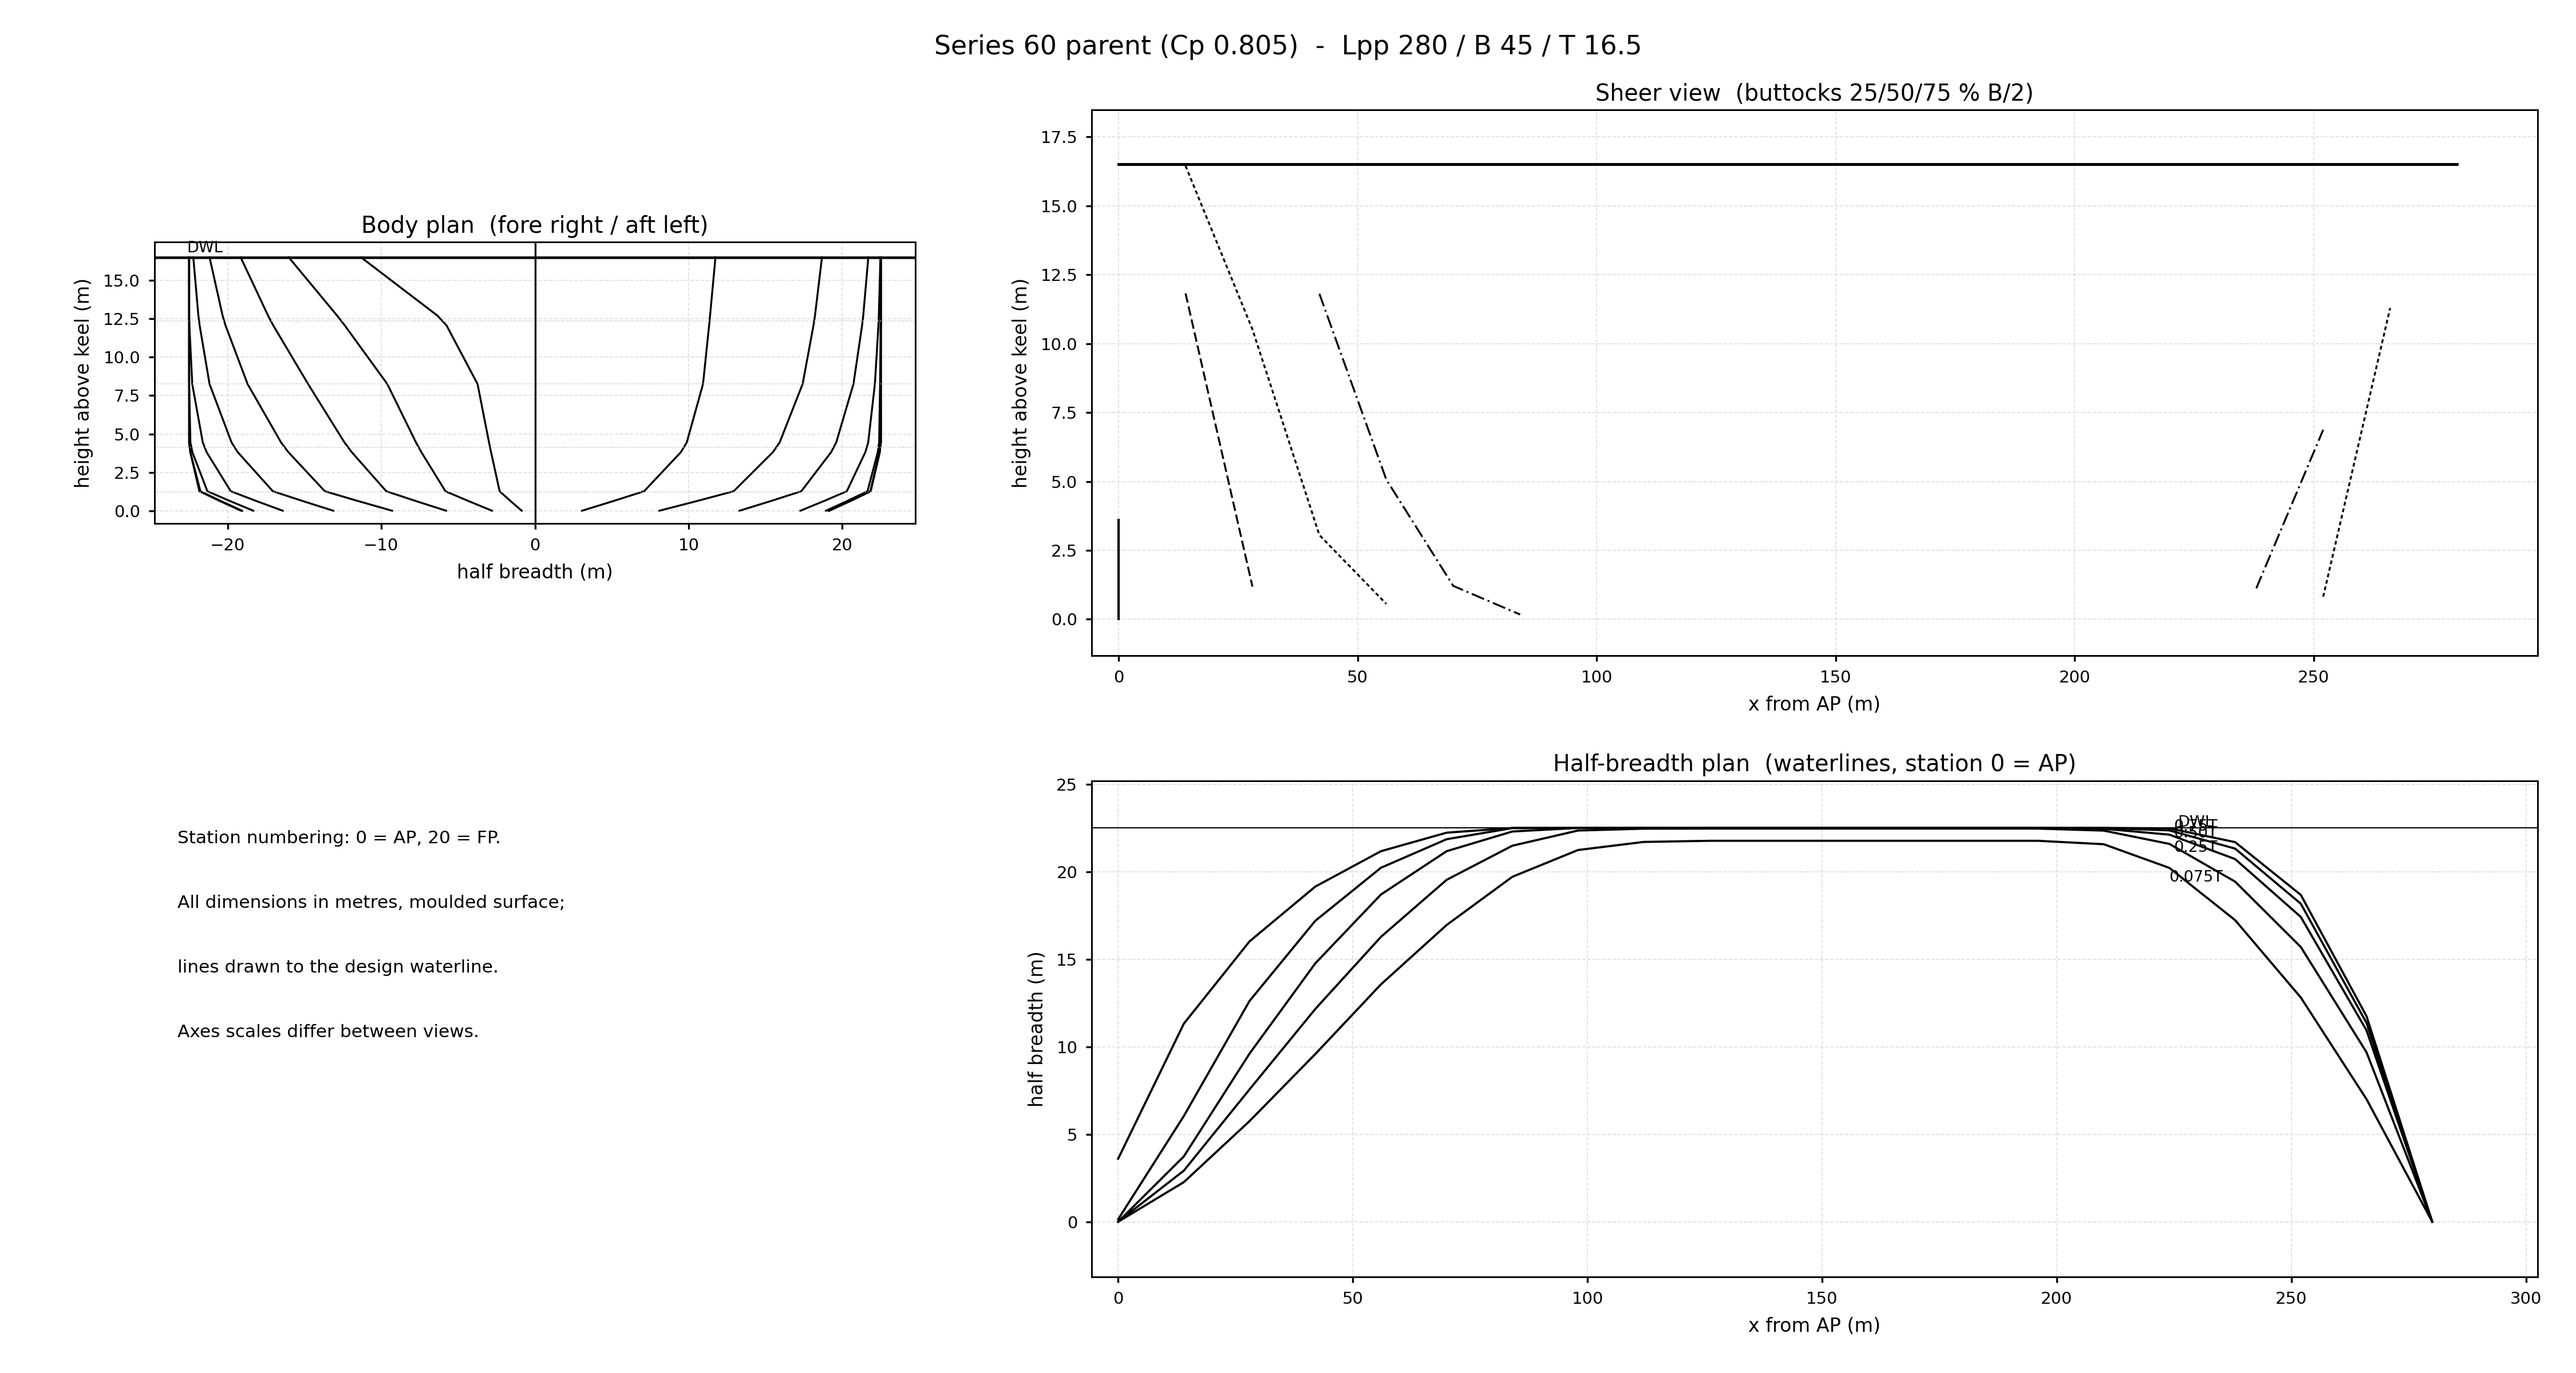
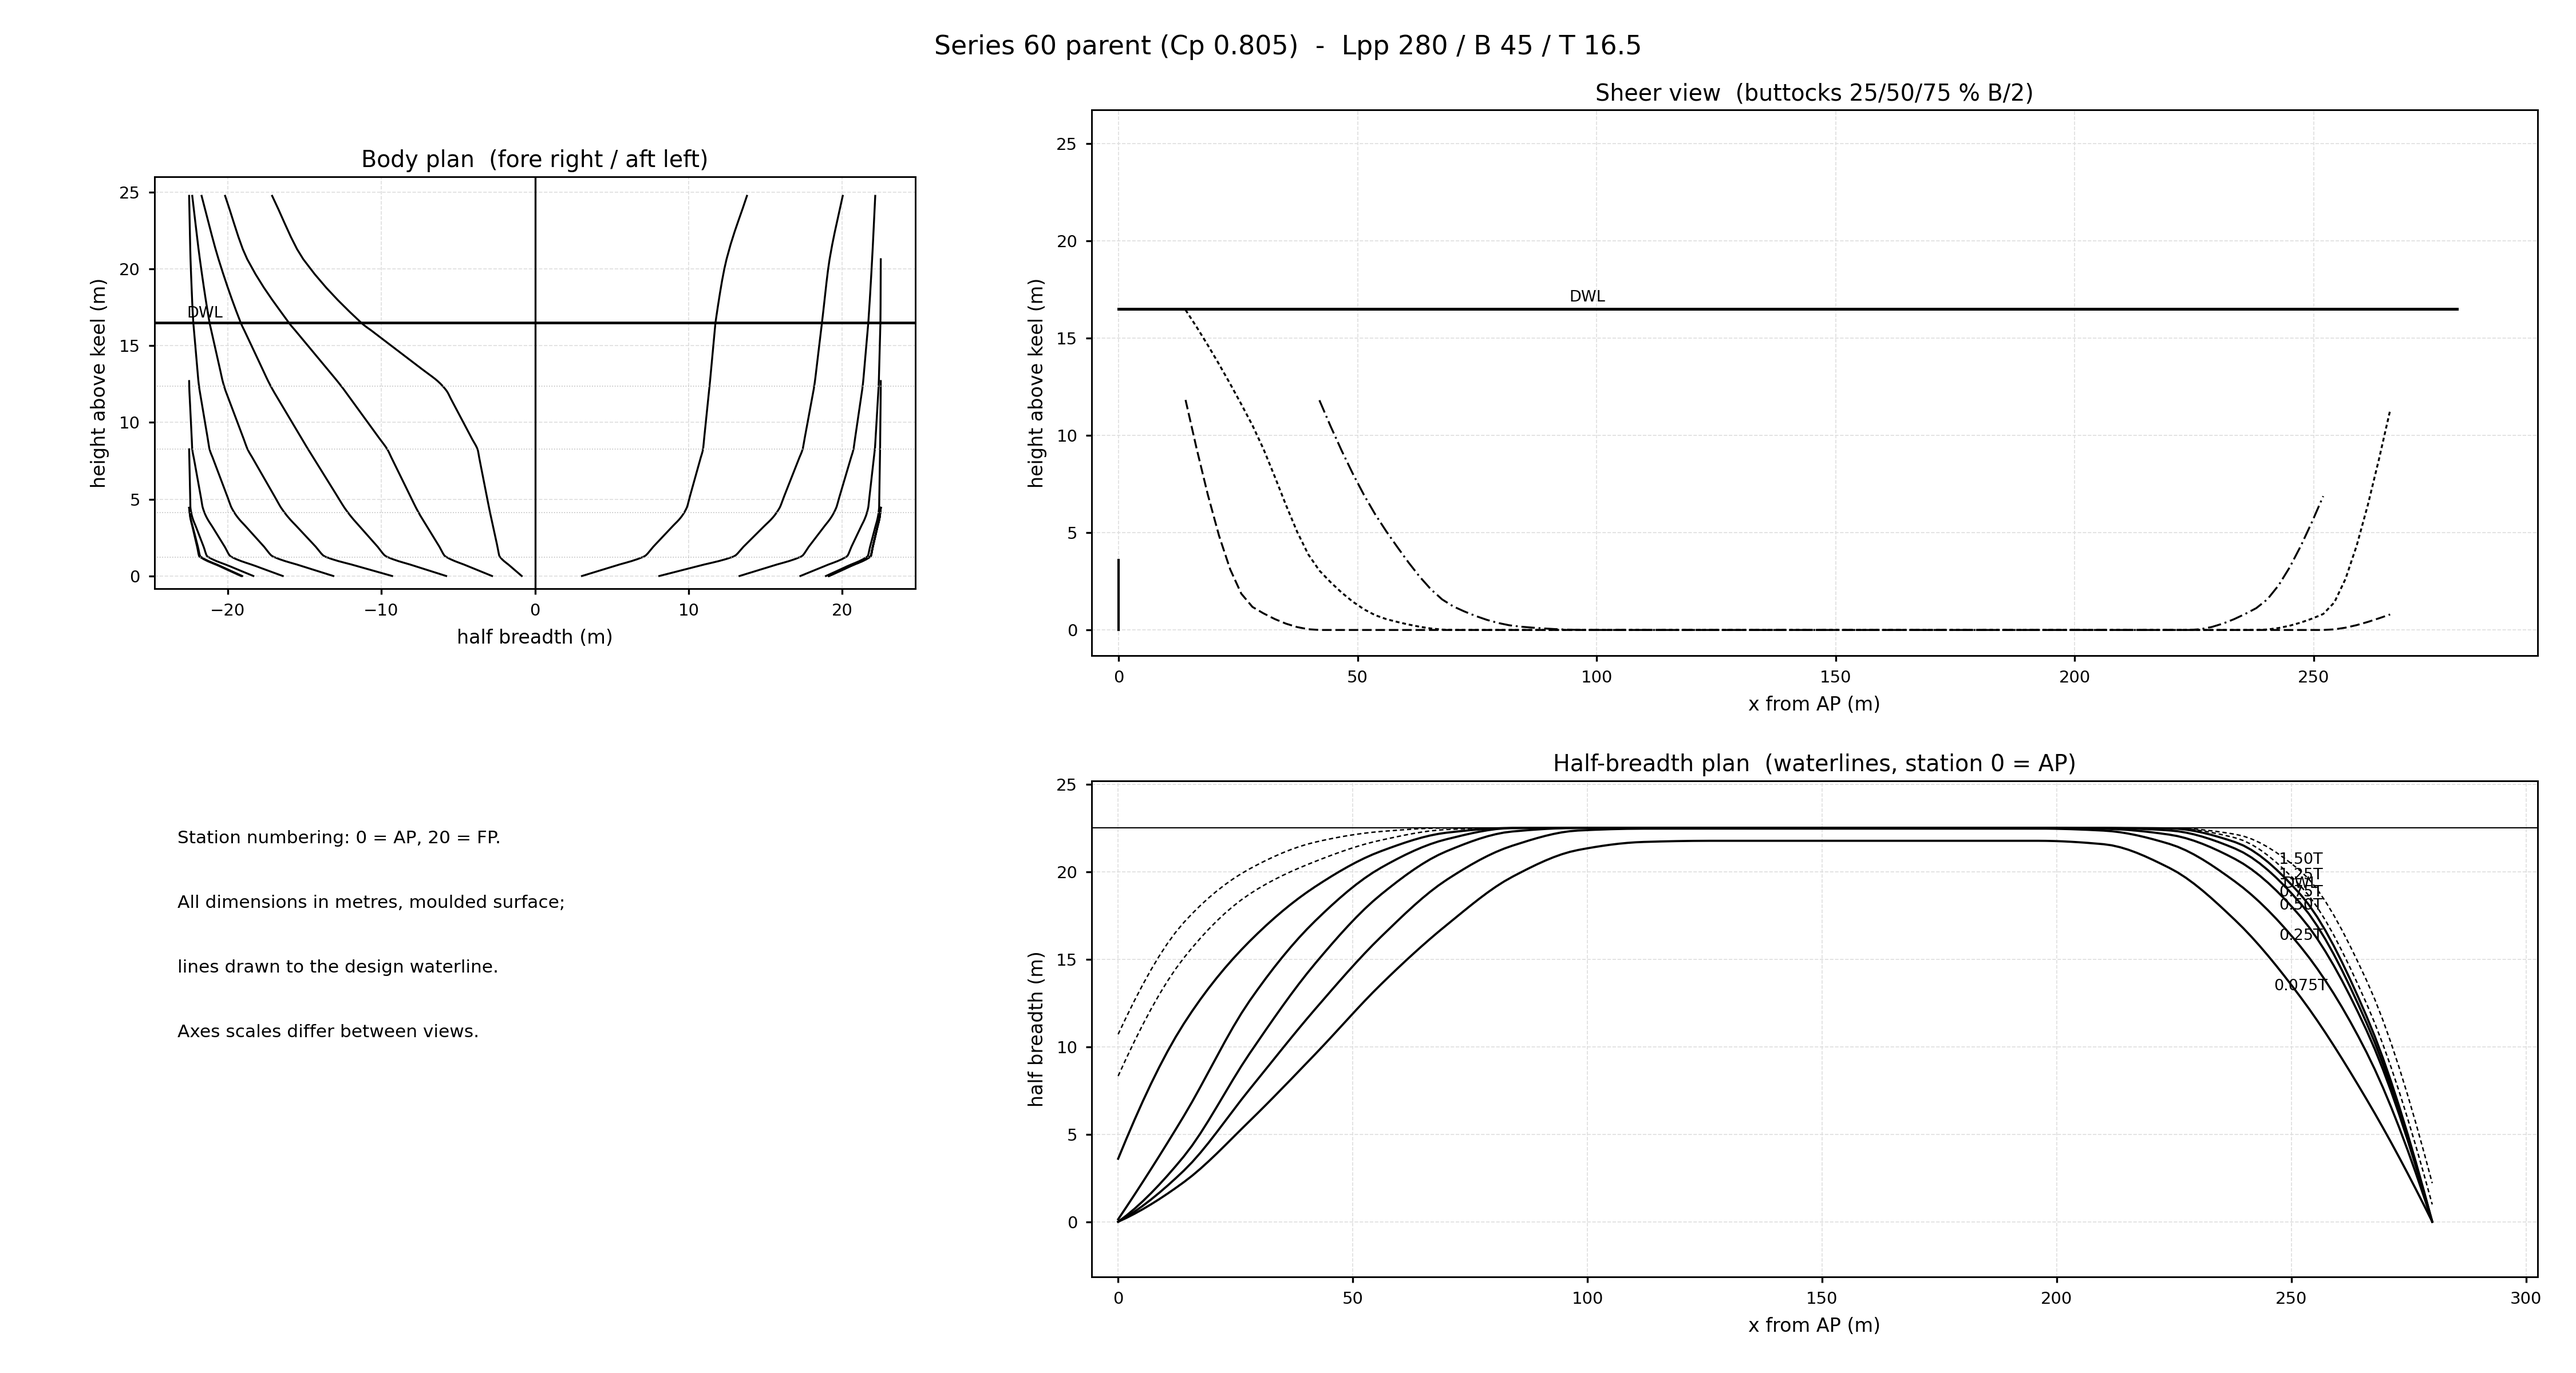
fix: draw the lines plan up to 1.5T with the above-DWL flare layers
Review showed the sheets looked nothing like a real lines plan: the
body-plan sections stopped at the design waterline, cutting off the
fore-body flare that gives a merchant hull its shape.

- geometry.load_upper_offsets: the 1.25 T / 1.50 T tabulated layers
  travel alongside the OffsetsTable (which still stops at the DWL so
  hydrostatics stay below-waterline only)
- LackenbyReport.shift_x_m: the station shift field is reported so the
  above-waterline layers move with their sections under a transform
- drawing: sections extend to the topmost available layer, the
  1.25/1.50 T waterlines are drawn dashed on the plan

Reference sheet for the layout: Capesize bulk carrier lines plan
(Wikimedia Commons). Suite 143 green.

diff --git a/src/openhull/drawing.py b/src/openhull/drawing.py
@@ -24,12 +24,16 @@ import numpy as np
 
 from .geometry import OffsetsTable
 
-#: tabulated waterline fractions of the source table
+#: tabulated waterline fractions of the source table (below the DWL)
 _DRAUGHT_FRACTIONS = (0.075, 0.25, 0.50, 0.75, 1.00)
 
 #: labels for those fractions on the half-breadth plan
 _WL_LABELS = {1.0: "DWL", 0.75: "0.75T", 0.5: "0.50T", 0.25: "0.25T",
               0.075: "0.075T"}
+
+#: tabulated waterline fractions ABOVE the design waterline (fore-body
+#: flare); drawn dashed when the caller supplies them
+_UPPER_FRACTIONS = (1.25, 1.50)
 
 
 def save_offsets_csv(table: OffsetsTable, path: str) -> str:
@@ -173,16 +177,26 @@ def _buttock_heights(table: OffsetsTable, target: float) -> np.ndarray:
     return z_at
 
 
-def draw_lines_plan(table: OffsetsTable, path: str, *,
-                    title: str = "Lines plan",
-                    dpi: int = 300) -> str:
+def draw_lines_plan(table: OffsetsTable, path: str, *, title: str =
+                    "Lines plan", dpi: int = 300,
+                    upper: np.ndarray | None = None,
+                    upper_shift_x_m: np.ndarray | None = None) -> str:
     """Draw the classic three-view lines plan as a monochrome PNG.
 
     Body plan upper left (fore body right / aft body left of the
     centreline), sheer view with 25/50/75 % buttock lines upper right,
-    half-breadth plan with the tabulated waterlines at the bottom; the
-    three views are geometrically aligned.  Station numbering on the
-    plan: 0 = AP, 20 = FP.  Returns the written path.
+    half-breadth plan with the tabulated waterlines at the bottom.
+    Station numbering on the plan: 0 = AP, 20 = FP.
+
+    ``upper`` carries the tabulated waterline layers ABOVE the design
+    waterline (DTMB Table 7: 1.25 T and 1.50 T) as an
+    (n_stations, len(upper)) matrix of half-breadths in metres; they
+    show the fore-body flare that a DWL-truncated table hides.
+    ``upper_shift_x_m`` is the station shift field of a transform (from
+    ``LackenbyReport.shift_x_m``) applied to those layers so a
+    transformed hull draws its flare at the shifted stations.
+
+    Returns the written path.
     """
     import matplotlib
     matplotlib.use("Agg")
@@ -194,6 +208,20 @@ def draw_lines_plan(table: OffsetsTable, path: str, *,
     mid = x.size // 2
     half = beam / 2.0
     heights, yw = _waterlines_at(table)
+
+    # upper (above-DWL) layers, shifted by the transform field if given
+    upper_layers: list[tuple[float, np.ndarray]] = []
+    if upper is not None:
+        upper = np.asarray(upper, dtype=float)
+        for j, f in enumerate(_UPPER_FRACTIONS):
+            col = upper[:, j]
+            if upper_shift_x_m is not None:
+                shift = np.asarray(upper_shift_x_m, dtype=float)
+                col = np.interp(np.clip(x - shift, 0.0, lpp), x, col)
+            upper_layers.append((f * z_top, col))
+
+    # body-plan sections extend to the topmost available layer
+    z_draw_top = upper_layers[-1][0] if upper_layers else z_top
 
     # The body plan keeps a 1:1 aspect (section shapes must not distort);
     # the sheer and half-breadth views decouple the axis scales the way
@@ -221,8 +249,12 @@ def draw_lines_plan(table: OffsetsTable, path: str, *,
 
     # ---- body plan (upper left): spline-faired sections ----
     for i in range(1, x.size - 1):
-        y_sec, z_sec = _dense_section(table.waterlines,
-                                      table.half_breadths[i])
+        z_col = np.concatenate((table.waterlines,
+                                np.array([h for h, _ in upper_layers])))
+        y_col = np.concatenate((table.half_breadths[i],
+                                np.array([col[i] for _, col in upper_layers])
+                                if upper_layers else np.empty(0)))
+        y_sec, z_sec = _dense_section(z_col, y_col)
         side = 1.0 if i >= mid else -1.0
         ax_body.plot(side * y_sec, z_sec, color="black", linewidth=0.8)
     ax_body.axhline(z_top, color="black", linewidth=1.1)
@@ -234,7 +266,7 @@ def draw_lines_plan(table: OffsetsTable, path: str, *,
                      color="black", ha="left")
     ax_body.set_aspect("equal")
     ax_body.set_xlim(-half * 1.10, half * 1.10)
-    ax_body.set_ylim(-z_top * 0.05, z_top * 1.06)
+    ax_body.set_ylim(-z_top * 0.05, z_draw_top * 1.05)
     ax_body.set_title("Body plan  (fore right / aft left)",
                       fontsize=9.5, color="black", pad=4)
     ax_body.set_xlabel("half breadth (m)", fontsize=8)
@@ -260,7 +292,7 @@ def draw_lines_plan(table: OffsetsTable, path: str, *,
                               xytext=(4, 0), textcoords="offset points",
                               fontsize=6.5, color="black")
     ax_sheer.set_xlim(-lpp * 0.02, lpp * 1.06)
-    ax_sheer.set_ylim(-z_top * 0.08, z_top * 1.12)
+    ax_sheer.set_ylim(-z_top * 0.08, z_draw_top * 1.08)
     ax_sheer.set_title("Sheer view  (buttocks 25/50/75 % B/2)",
                        fontsize=9.5, color="black", pad=4)
     ax_sheer.set_xlabel("x from AP (m)", fontsize=8)
@@ -277,6 +309,14 @@ def draw_lines_plan(table: OffsetsTable, path: str, *,
                          (x_lab, y_lab), xytext=(0, 3),
                          textcoords="offset points", fontsize=6.5,
                          color="black", ha="center")
+    for h, col in upper_layers:   # above-DWL flare lines, dashed
+        _xq, yq = pchip(x, col, factor=8)
+        ax_plan.plot(xq_long, yq, color="black", linewidth=0.6,
+                     linestyle=(0, (3, 2)))
+        y_lab = float(np.interp(x_lab, xq_long, yq))
+        ax_plan.annotate(f"{h / z_top:.2f}T", (x_lab, y_lab),
+                         xytext=(0, 3), textcoords="offset points",
+                         fontsize=6.5, color="black", ha="center")
     ax_plan.axhline(half, color="black", linewidth=0.5)
     ax_plan.set_xlim(-lpp * 0.02, lpp * 1.08)
     ax_plan.set_ylim(-half * 0.14, half * 1.12)

diff --git a/src/openhull/geometry.py b/src/openhull/geometry.py
@@ -495,3 +495,69 @@ def load_offsets_csv(
         lpp=lpp, beam=beam, stations=stations_q,
         waterlines=zeta_q, half_breadths=grid,
     )
+
+
+def load_upper_offsets(
+    path: str,
+    *,
+    lpp: float,
+    beam: float,
+    draft: float,
+    fractions: tuple = (1.25, 1.5),
+    n_stations: int = 21,
+) -> np.ndarray:
+    """Tabulated half-breadths ABOVE the design waterline, metres.
+
+    DTMB Table 7 lists two waterlines above the DWL (1.25 T, 1.50 T);
+    they carry the flare of the fore-body sections and are needed for
+    drawing the lines plan up to its upper limit.  The OffsetsTable
+    itself stops at the design draft (hydrostatics integrate below the
+    waterline only), so the upper layers travel separately as an
+    (n_stations, len(fractions)) matrix on the same equal station grid.
+    """
+    import csv
+
+    rows: list[list[str]] = []
+    with open(path, newline="", encoding="utf-8-sig") as fh:
+        for row in csv.reader(line for line in fh if not line.startswith("#")):
+            if row:
+                rows.append([cell.strip() for cell in row])
+
+    header = rows[0]
+    body = {r[0]: r for r in rows[1:]}
+    for name, row in body.items():
+        if len(row) != len(header):
+            raise ValueError(
+                f"row '{name}' in {path} has {len(row)} fields, "
+                f"expected {len(header)}"
+            )
+    wl_names = [name for name in header if name.startswith("wl_")]
+    wl_cols = [header.index(name) for name in wl_names]
+    wl_fracs = [float(name.removeprefix("wl_")) for name in wl_names]
+    mh_row = [float(v) for v in body["max_half_beam"][1:] if v != ""]
+    wl_max = mh_row[1:]
+
+    tab_stations: list[float] = []
+    tab_cols: list[list[float]] = []   # requested fractions, per station
+    for name, row in body.items():
+        if name == "max_half_beam":
+            continue
+        xi = 1.0 if name == "FP" else (0.0 if name == "AP"
+                                       else 1.0 - float(name) / 20.0)
+        vals = []
+        for f in fractions:
+            col = wl_fracs.index(f)
+            vals.append(float(row[wl_cols[col]]) * wl_max[col] * beam / 2.0)
+        tab_stations.append(xi * lpp)
+        tab_cols.append(vals)
+
+    order = sorted(range(len(tab_stations)), key=lambda i: tab_stations[i])
+    tab_stations = [tab_stations[i] for i in order]
+    tab_cols = [tab_cols[i] for i in order]
+
+    stations_q = np.linspace(0.0, lpp, n_stations)
+    grid = np.column_stack([
+        np.interp(stations_q, tab_stations, [row[j] for row in tab_cols])
+        for j in range(len(fractions))
+    ])
+    return grid

diff --git a/src/openhull/linesplan.py b/src/openhull/linesplan.py
@@ -42,7 +42,7 @@ Declared first-order approximations (validated in VALIDATION.md):
 from __future__ import annotations
 
 import math
-from dataclasses import dataclass
+from dataclasses import dataclass, field
 
 import numpy as np
 
@@ -313,6 +313,7 @@ class LackenbyReport:
     achieved: dict
     iterations: int
     identity: bool
+    shift_x_m: list = field(default_factory=list)  # station dx field, m
 
     def to_dict(self) -> dict:
         return {
@@ -325,6 +326,7 @@ class LackenbyReport:
             "achieved": dict(self.achieved),
             "iterations": self.iterations,
             "identity": self.identity,
+            "shift_x_m": list(self.shift_x_m),
         }
 
 
@@ -455,11 +457,12 @@ def lackenby_transform(
         corr_cp = (goal_cb_s - _table_cb(work)) / cm_cur
         corr_xb = goal_xb_s - 2.0 * _table_lcb_pct(work) / 100.0
         new_table = work
+        dx_last = np.zeros_like(work.stations)
         passes = 0
         for passes in range(1, min(max_passes, MAX_PASSES) + 1):
             new_fore, new_aft = _run_once(f_cur, a_cur, corr_cp, corr_xb,
                                           dl_f, dl_a)
-            new_table = _carry_table(work, new_fore, new_aft)
+            new_table, dx_last = _carry_table(work, new_fore, new_aft)
             err_cp = (goal_cb_s - _table_cb(new_table)) / cm_cur
             err_xb = goal_xb_s - 2.0 * _table_lcb_pct(new_table) / 100.0
             if abs(err_cp) < CP_TOL and abs(err_xb) < XB_TOL:
@@ -482,6 +485,7 @@ def lackenby_transform(
                   "lcb_pct_lpp": round(_table_lcb_pct(work), 4),
                   "cm_held": round(cm, 6)},
         iterations=passes_total, identity=False,
+        shift_x_m=[round(float(v), 4) for v in dx_last],
     )
     return work, report
 
@@ -579,7 +583,11 @@ def _carry_table(table: OffsetsTable, fore, aft) -> OffsetsTable:
     new_breadths = np.empty_like(table.half_breadths)
     for j in range(table.waterlines.size):
         new_breadths[:, j] = np.interp(x_src, x, table.half_breadths[:, j])
-    return OffsetsTable(
+    new_table = OffsetsTable(
         lpp=table.lpp, beam=table.beam, stations=x.copy(),
         waterlines=table.waterlines.copy(), half_breadths=new_breadths,
     )
+    return new_table, dx
+
+
+# ---------------------------------------------------------------------------
